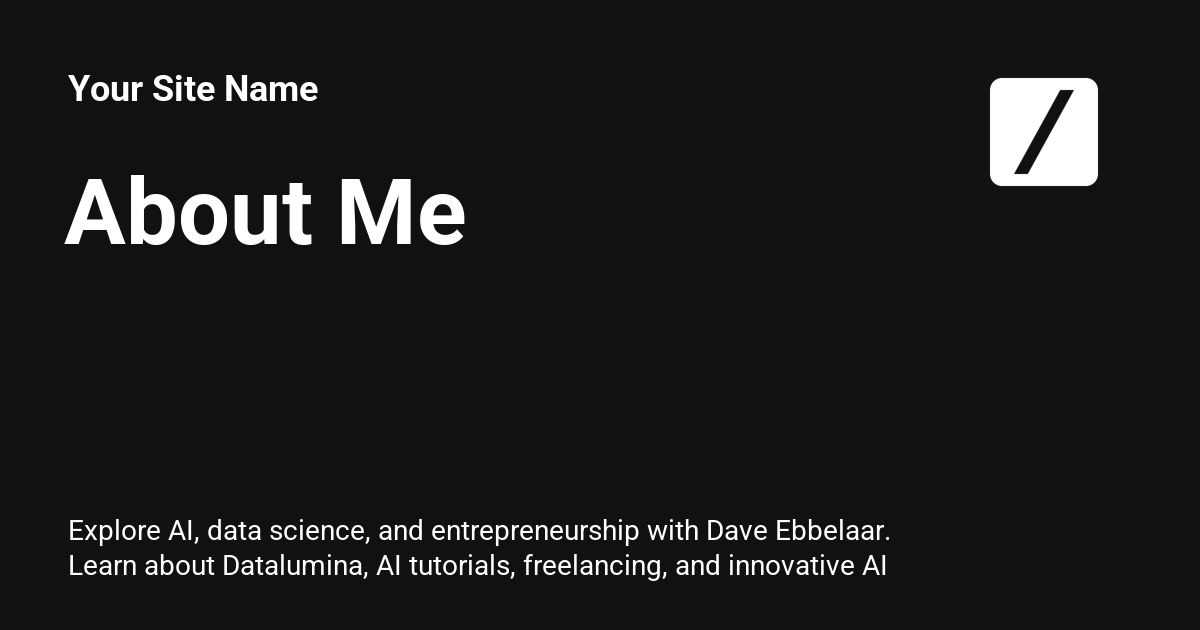
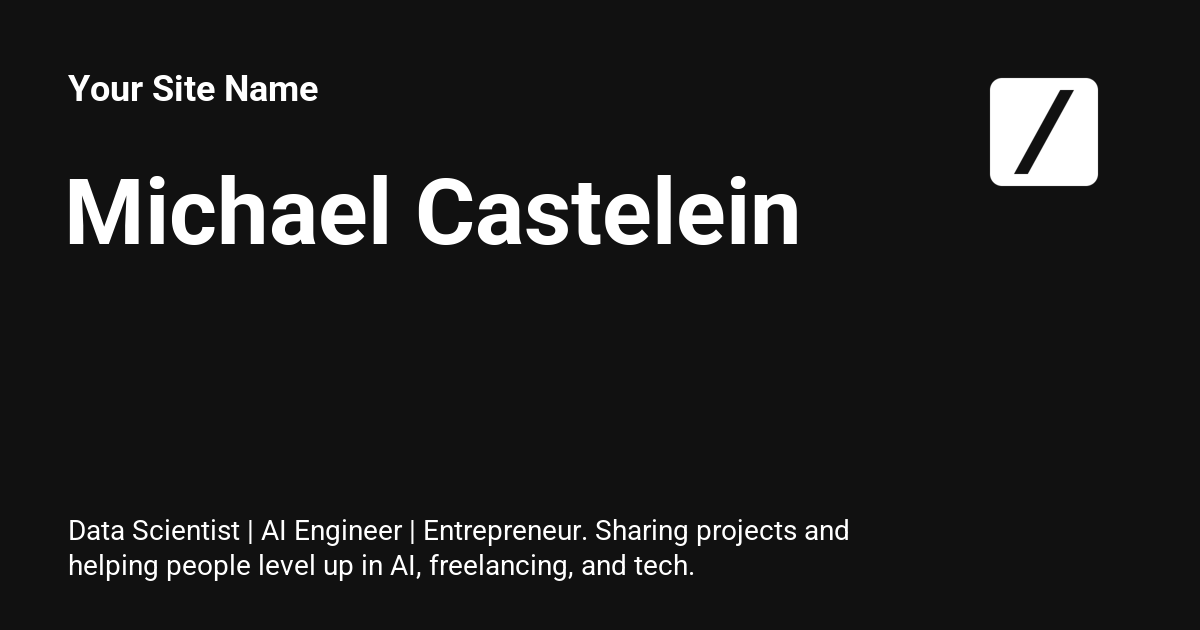
Deployed fbf3d1a with MkDocs version: 1.6.1

Changed region(s): [[0.0617, 0.8143, 0.74, 0.9349], [0.0308, 0.2714, 0.6783, 0.3921]]

diff --git a/index.html b/index.html
@@ -6,10 +6,10 @@
       <meta charset="utf-8">
       <meta name="viewport" content="width=device-width,initial-scale=1">
       
-        <meta name="description" content="Explore AI, data science, and entrepreneurship with Dave Ebbelaar. Learn about Datalumina, AI tutorials, freelancing, and innovative AI solutions for businesses.">
+        <meta name="description" content="Data Scientist | AI Engineer | Entrepreneur. Sharing projects and helping people level up in AI, freelancing, and tech.">
       
       
-        <meta name="author" content="Dave Ebbelaar">
+        <meta name="author" content="Michael Castelein">
       
       
         <link rel="canonical" href="https://michaelcastelein.com/">
@@ -24,7 +24,7 @@
     
     
       
-        <title>About Me - Your Site Name</title>
+        <title>Michael Castelein - Your Site Name</title>
       
     
     
@@ -65,7 +65,7 @@
       
         <meta  property="og:title"  content="Your Site Name" >
       
-        <meta  property="og:description"  content="Explore AI, data science, and entrepreneurship with Dave Ebbelaar. Learn about Datalumina, AI tutorials, freelancing, and innovative AI solutions for businesses." >
+        <meta  property="og:description"  content="Data Scientist | AI Engineer | Entrepreneur. Sharing projects and helping people level up in AI, freelancing, and tech." >
       
         <meta  property="og:image"  content="https://michaelcastelein.com/assets/images/social/index.png" >
       
@@ -81,7 +81,7 @@
       
         <meta  name="twitter:title"  content="Your Site Name" >
       
-        <meta  name="twitter:description"  content="Explore AI, data science, and entrepreneurship with Dave Ebbelaar. Learn about Datalumina, AI tutorials, freelancing, and innovative AI solutions for businesses." >
+        <meta  name="twitter:description"  content="Data Scientist | AI Engineer | Entrepreneur. Sharing projects and helping people level up in AI, freelancing, and tech." >
       
         <meta  name="twitter:image"  content="https://michaelcastelein.com/assets/images/social/index.png" >
       
@@ -106,7 +106,7 @@
     <div data-md-component="skip">
       
         
-        <a href="#turn-ai-complexity-into-your-competitive-advantage" class="md-skip">
+        <a href="#hey-im-michael" class="md-skip">
           Skip to content
         </a>
       
@@ -140,7 +140,7 @@
         <div class="md-header__topic" data-md-component="header-topic">
           <span class="md-ellipsis">
             
-              About Me
+              Michael Castelein
             
           </span>
         </div>
@@ -388,45 +388,27 @@
     <ul class="md-nav__list" data-md-component="toc" data-md-scrollfix>
       
         <li class="md-nav__item">
-  <a href="#i-have-5-years-experience-doing-just-that" class="md-nav__link">
-    <span class="md-ellipsis">
-      I have 5+ years experience doing just that
-    </span>
-  </a>
-  
-</li>
-      
-        <li class="md-nav__item">
   <a href="#about-me" class="md-nav__link">
     <span class="md-ellipsis">
-      About me
+      About Me
     </span>
   </a>
   
 </li>
       
         <li class="md-nav__item">
-  <a href="#why-work-with-me" class="md-nav__link">
+  <a href="#recent-projects" class="md-nav__link">
     <span class="md-ellipsis">
-      Why work with me?
+      Recent Projects
     </span>
   </a>
   
 </li>
       
         <li class="md-nav__item">
-  <a href="#what-my-past-clients-say-about-my-work" class="md-nav__link">
+  <a href="#lets-connect" class="md-nav__link">
     <span class="md-ellipsis">
-      What my past clients say about my work
-    </span>
-  </a>
-  
-</li>
-      
-        <li class="md-nav__item">
-  <a href="#frequently-asked-questions" class="md-nav__link">
-    <span class="md-ellipsis">
-      Frequently asked questions
+      Let’s Connect
     </span>
   </a>
   
@@ -938,149 +920,62 @@
 
 
 
-<script type="application/ld+json">
-{
-  "@context": "https://schema.org",
-  "@type": "Person",
-  "name": "Dave Ebbelaar",
-  "url": "https://www.daveebbelaar.com/",
-  "image": "https://avatars.githubusercontent.com/u/34709402?v=4",
-  "sameAs": [
-    "https://www.youtube.com/channel/UCn8ujwUInbJkBhffxqAPBVQ",
-    "https://www.youtube.com/@daveebbelaar",
-    "https://www.linkedin.com/in/daveebbelaar/",
-    "https://github.com/daveebbelaar"
-    "https://www.skool.com/@daveebbelaar"
-  ],
-  "jobTitle": "Founder & CEO",
-  "worksFor": {
-    "@type": "Organization",
-    "name": "Datalumina",
-    "url": "https://www.datalumina.com/"
-  },
-}
-</script>
-
 <div class="hero-section grid-container">
 <div class="text-intro-grid">
-<h1 id="turn-ai-complexity-into-your-competitive-advantage">Turn AI complexity into your competitive advantage</h1>
-<h3 id="i-have-5-years-experience-doing-just-that">I have 5+ years experience doing just that</h3>
-<ul>
-<li>
-<p>Are you struggling to keep up with the rapid pace of AI innovation?</p>
-</li>
-<li>
-<p>Do you need help translating AI hype into real business results?</p>
-</li>
-<li>
-<p>Want to implement AI effectively before competitors get ahead?</p>
-</li>
-<li>
-<p>Looking for technical expertise and a clear roadmap for AI solutions?</p>
-</li>
-<li>
-<p>Need someone who understands both technical and business perspectives?</p>
-</li>
-</ul>
-<p><a class="md-button md-button--primary" href="https://www.calendly.com">Book Free Intro Call <span class="twemoji"><svg xmlns="http://www.w3.org/2000/svg" viewBox="0 0 24 24"><path d="M5 17.59 15.59 7H9V5h10v10h-2V8.41L6.41 19z"/></svg></span></a></p>
+<h1 id="hey-im-michael">Hey, I’m Michael 👋</h1>
+<p><strong>Data Scientist | Machine Learning Engineer | Entrepreneur</strong></p>
+<p>I turn complex data problems into clear, actionable solutions.<br />
+Currently focused on building projects in AI, freelancing, and online education.</p>
+<p><a class="md-button md-button--primary" href="portfolio/">View Portfolio <span class="twemoji"><svg xmlns="http://www.w3.org/2000/svg" viewBox="0 0 24 24"><path d="M5 17.59 15.59 7H9V5h10v10h-2V8.41L6.41 19z"/></svg></span></a></p>
 </div>
 <div class="profile-image-grid">
-<p><img alt="Portrait of Dave Ebbelaar, AI entrepreneur and educator" class="profile-image" src="assets/%40daveebbelaar.jpg" /></p>
+<p><img alt="Michael Castelein headshot" class="profile-image" src="assets/%40daveebbelaar.jpg" /></p>
 </div>
 </div>
-<h2 id="about-me">About me</h2>
-<p>Hi! I'm Dave, an entrepreneur and educator from the Netherlands. I work with technical professionals facing the overwhelming pace of AI innovation and businesses struggling to translate AI hype into competitive advantage. Whether you're a developer watching your skills becoming obsolete or a company unsure how to implement AI effectively—the challenge is the same: how to effectively use this technology before your competitors do.</p>
-<p>My artificial intelligence journey spans over a decade, with bachelor's and master's degrees in the field and experience building custom data and AI systems across utilities, government, and e-commerce sectors. My tech stack includes Python, PostgreSQL, ML, FastAPI, OpenAI, Claude, Azure, vector databases, RAG, and LLM integration for enterprise applications.</p>
-<h2 id="why-work-with-me">Why work with me?</h2>
-<p>Here's what sets me apart and how I can help drive value for your business:</p>
+<h2 id="about-me">About Me</h2>
+<p>I'm Michael — a Dutch-American data scientist and entrepreneur with experience across analytics, forecasting, and machine learning. I’ve worked with startups and global companies, and I’m passionate about using data to make smarter decisions and build useful things.</p>
+<ul>
+<li>🧠 Master’s in Econometrics (Quantitative Finance)</li>
+<li>⚙ Python, SQL, Sklearn, TensorFlow, Statsmodels, PyTorch</li>
+<li>📊 Forecasting, Regression, NLP, Time Series, LLMs</li>
+<li>🌍 Worldschooling &amp; Remote Work Enthusiast</li>
+</ul>
+<p>I’m currently:</p>
+<ul>
+<li>🧪 Running AI experiments and freelancing</li>
+<li>🎓 Building a language-learning app with my partner</li>
+<li>🏋 Improving my fitness and exploring Asia</li>
+</ul>
+<h2 id="recent-projects">Recent Projects</h2>
 <div class="grid cards">
 <ul>
-<li>
-<p><span class="twemoji lg middle"><svg xmlns="http://www.w3.org/2000/svg" viewBox="0 0 640 512"><!--! Font Awesome Free 6.7.2 by @fontawesome - https://fontawesome.com License - https://fontawesome.com/license/free (Icons: CC BY 4.0, Fonts: SIL OFL 1.1, Code: MIT License) Copyright 2024 Fonticons, Inc.--><path d="M48 0C21.5 0 0 21.5 0 48v416c0 26.5 21.5 48 48 48h96v-80c0-26.5 21.5-48 48-48s48 21.5 48 48v80h89.9c-6.3-10.2-9.9-22.2-9.9-35.1 0-46.9 25.8-87.8 64-109.2V48c0-26.5-21.5-48-48-48zm16 240c0-8.8 7.2-16 16-16h32c8.8 0 16 7.2 16 16v32c0 8.8-7.2 16-16 16H80c-8.8 0-16-7.2-16-16zm112-16h32c8.8 0 16 7.2 16 16v32c0 8.8-7.2 16-16 16h-32c-8.8 0-16-7.2-16-16v-32c0-8.8 7.2-16 16-16m80 16c0-8.8 7.2-16 16-16h32c8.8 0 16 7.2 16 16v32c0 8.8-7.2 16-16 16h-32c-8.8 0-16-7.2-16-16zM80 96h32c8.8 0 16 7.2 16 16v32c0 8.8-7.2 16-16 16H80c-8.8 0-16-7.2-16-16v-32c0-8.8 7.2-16 16-16m80 16c0-8.8 7.2-16 16-16h32c8.8 0 16 7.2 16 16v32c0 8.8-7.2 16-16 16h-32c-8.8 0-16-7.2-16-16zm112-16h32c8.8 0 16 7.2 16 16v32c0 8.8-7.2 16-16 16h-32c-8.8 0-16-7.2-16-16v-32c0-8.8 7.2-16 16-16m304 176a80 80 0 1 0-160 0 80 80 0 1 0 160 0M352 477.1c0 19.3 15.6 34.9 34.9 34.9h218.2c19.3 0 34.9-15.6 34.9-34.9 0-51.4-41.7-93.1-93.1-93.1H445.1c-51.4 0-93.1 41.7-93.1 93.1"/></svg></span> Proven Business Experience</p>
-<hr />
-<p>As the founder of Datalumina, I bring entrepreneurial insight to every project. I understand both the technical and business sides of AI implementation, ensuring solutions that deliver real ROI and align with your business goals.</p>
-</li>
-<li>
-<p><span class="twemoji lg middle"><svg xmlns="http://www.w3.org/2000/svg" viewBox="0 0 24 24"><path d="m10 15 5.19-3L10 9zm11.56-7.83c.13.47.22 1.1.28 1.9.07.8.1 1.49.1 2.09L22 12c0 2.19-.16 3.8-.44 4.83-.25.9-.83 1.48-1.73 1.73-.47.13-1.33.22-2.65.28-1.3.07-2.49.1-3.59.1L12 19c-4.19 0-6.8-.16-7.83-.44-.9-.25-1.48-.83-1.73-1.73-.13-.47-.22-1.1-.28-1.9-.07-.8-.1-1.49-.1-2.09L2 12c0-2.19.16-3.8.44-4.83.25-.9.83-1.48 1.73-1.73.47-.13 1.33-.22 2.65-.28 1.3-.07 2.49-.1 3.59-.1L12 5c4.19 0 6.8.16 7.83.44.9.25 1.48.83 1.73 1.73"/></svg></span> Educator &amp; Communicator</p>
-<hr />
-<p>My experience as a content creator and educator means I can break down complex technical concepts into clear, actionable insights. You'll always understand the 'why' behind technical decisions and get clear progress updates.</p>
-</li>
-<li>
-<p><span class="twemoji lg middle"><svg xmlns="http://www.w3.org/2000/svg" viewBox="0 0 24 24"><path d="M12 3 1 9l11 6 9-4.91V17h2V9M5 13.18v4L12 21l7-3.82v-4L12 17z"/></svg></span> Industry Expert</p>
-<hr />
-<p>With over a decade in AI and data science, including work across utilities, government, and e-commerce sectors, I bring battle-tested expertise to your projects. My solutions are built on real-world experience, not just theory.</p>
-</li>
-<li>
-<p><span class="twemoji lg middle"><svg xmlns="http://www.w3.org/2000/svg" viewBox="0 0 24 24"><path d="m20 22-3.86-1.55c.7-1.53 1.2-3.11 1.51-4.72zM7.86 20.45 4 22l2.35-6.27c.31 1.61.81 3.19 1.51 4.72M12 2s5 2 5 10c0 3.1-.75 5.75-1.67 7.83A2 2 0 0 1 13.5 21h-3a2 2 0 0 1-1.83-1.17C7.76 17.75 7 15.1 7 12c0-8 5-10 5-10m0 10c1.1 0 2-.9 2-2s-.9-2-2-2-2 .9-2 2 .9 2 2 2"/></svg></span> Fast Implementation</p>
-<hr />
-<p>I specialize in rapid development and deployment of AI solutions. Using modern tools and proven frameworks, I can help you move from concept to production faster, giving you a competitive edge in today's fast-paced market.</p>
-</li>
+<li><span class="twemoji lg middle"><svg xmlns="http://www.w3.org/2000/svg" viewBox="0 0 24 24"><path d="m13.13 22.19-1.63-3.83c1.57-.58 3.04-1.36 4.4-2.27zM5.64 12.5l-3.83-1.63 6.1-2.77C7 9.46 6.22 10.93 5.64 12.5M21.61 2.39S16.66.269 11 5.93c-2.19 2.19-3.5 4.6-4.35 6.71-.28.75-.09 1.57.46 2.13l2.13 2.12c.55.56 1.37.74 2.12.46A19.1 19.1 0 0 0 18.07 13c5.66-5.66 3.54-10.61 3.54-10.61m-7.07 7.07c-.78-.78-.78-2.05 0-2.83s2.05-.78 2.83 0c.77.78.78 2.05 0 2.83s-2.05.78-2.83 0m-5.66 7.07-1.41-1.41zM6.24 22l3.64-3.64c-.34-.09-.67-.24-.97-.45L4.83 22zM2 22h1.41l4.77-4.76-1.42-1.41L2 20.59zm0-2.83 4.09-4.08c-.21-.3-.36-.62-.45-.97L2 17.76z"/></svg></span> Energy Price Forecasting Thesis</li>
 </ul>
-</div>
-<h2 id="what-my-past-clients-say-about-my-work">What my past clients say about my work</h2>
-<div class="grid cards testimonials">
+<hr />
+<p>Built a machine learning pipeline to forecast 1-day-ahead energy prices for California.<br />
+  Compared SARIMAX, LSTM, GRU, Random Forest, and Linear Regression with &amp; without spatial lags.<br />
+  Evaluated with RMSE, MAE, and R². Resulted in 10x faster predictions and better accuracy.</p>
 <ul>
-<li>
-<p><span class="twemoji lg middle"><svg xmlns="http://www.w3.org/2000/svg" viewBox="0 0 24 24"><path d="m10 7-2 4h3v6H5v-6l2-4zm8 0-2 4h3v6h-6v-6l2-4z"/></svg></span> Adrian Dragomir</p>
-<p>Founder at Sferal</p>
-<hr />
-<p>"Dave is a true professional and my collaboration with him has been flawless. <strong>He took his time and spent 3 days with me and my team in Mamaia, Romania where he was a guest for 3 sessions of my podcast Waves of AI</strong>. He is one of the most competent people I know that has a real understanding of how AI works and how to integrate it quickly in your company."</p>
-</li>
-<li>
-<p><span class="twemoji lg middle"><svg xmlns="http://www.w3.org/2000/svg" viewBox="0 0 24 24"><path d="m10 7-2 4h3v6H5v-6l2-4zm8 0-2 4h3v6h-6v-6l2-4z"/></svg></span> Barbara van den Bosch</p>
-<p>Founder at Viverve</p>
-<hr />
-<p>"Together with Datalumina, we developed a tailor-made program where I, as a school leader, can now bring together vast amounts of information in one place and automate key tasks. <strong>Beyond the tremendous quality improvement for our organization, working with Datalumina was an extremely pleasant experience</strong>."</p>
-</li>
-<li>
-<p><span class="twemoji lg middle"><svg xmlns="http://www.w3.org/2000/svg" viewBox="0 0 24 24"><path d="m10 7-2 4h3v6H5v-6l2-4zm8 0-2 4h3v6h-6v-6l2-4z"/></svg></span> Rene Raaphorst</p>
-<p>Founder at Crypto Insiders</p>
-<hr />
-<p>"My experience with Datalumina has been excellent. <strong>They think along with you every step of the way, from proof of concept to a fully functional product</strong>. I was amazed by the quality of the results and found the collaboration very enjoyable. I highly recommend Dave and Datalumina to everyone!"</p>
-</li>
-<li>
-<p><span class="twemoji lg middle"><svg xmlns="http://www.w3.org/2000/svg" viewBox="0 0 24 24"><path d="m10 7-2 4h3v6H5v-6l2-4zm8 0-2 4h3v6h-6v-6l2-4z"/></svg></span> Kelsen</p>
-<p>Founder at Datavisum</p>
-<hr />
-<p>"I am thankful for having come across Dave and Data Freelancer, it was one of the best investment decisions I've made in 2024. <strong>From effective ways to create inbound marketing strategies using social media, through solution architecture design to address all kinds of business challenges</strong>, you will extract a great deal of value from diverse perspectives."</p>
-</li>
+<li><span class="twemoji lg middle"><svg xmlns="http://www.w3.org/2000/svg" viewBox="0 0 24 24"><path d="M12 2a7 7 0 0 0-7 7c0 2.38 1.19 4.47 3 5.74V17a1 1 0 0 0 1 1h6a1 1 0 0 0 1-1v-2.26c1.81-1.27 3-3.36 3-5.74a7 7 0 0 0-7-7M9 21a1 1 0 0 0 1 1h4a1 1 0 0 0 1-1v-1H9z"/></svg></span> Notecard App for HSK1 Chinese Vocabulary</li>
 </ul>
-</div>
-<h2 id="frequently-asked-questions">Frequently asked questions</h2>
-<details class="note">
-<summary>How quickly can you start working on my project?</summary>
-<p>I can typically begin new projects within 1-2 weeks of contract signing. For urgent matters, I maintain some flexibility for rapid response situations and can potentially start sooner - just let me know your timeline during our initial consultation.</p>
-</details>
-<details class="note">
-<summary>Do you require a minimum project size or commitment?</summary>
-<p>While I can accommodate projects of any size, I find that engagements of at least 20 hours allow for meaningful impact. This gives us enough time to understand your data, implement solutions, and deliver actionable results. We can start with a small pilot project to ensure we're a good fit.</p>
-</details>
-<details class="note">
-<summary>What industries do you have experience in?</summary>
-<p>I've successfully delivered projects across e-commerce, manufacturing, healthcare, and financial services. While I specialize in data science fundamentals that apply across sectors, I particularly excel in projects involving customer behavior analysis, process optimization, and predictive modeling.</p>
-</details>
-<details class="note">
-<summary>How do you handle data security and confidentiality?</summary>
-<p>I take data security extremely seriously. I sign comprehensive NDAs before starting any project, use enterprise-grade encryption for all data transfers, and follow industry best practices for data handling. I can also work within your existing security infrastructure and policies.</p>
-</details>
-<details class="note">
-<summary>What's your pricing structure?</summary>
-<p>I offer both project-based and retainer pricing models. Project fees are based on scope, complexity, and value delivered rather than hours worked. For ongoing support, I offer flexible retainer packages. Let's discuss your specific needs during our consultation to determine the most cost-effective approach.</p>
-</details>
-<details class="note">
-<summary>How do you communicate progress and results?</summary>
-<p>I maintain clear communication through weekly progress updates and regular check-in meetings. You'll receive detailed documentation of all analyses, findings, and recommendations. For ongoing projects, I provide interactive dashboards and reports that allow you to track progress and results in real-time.</p>
-</details>
-<div class="grid cards" style="margin-top: 3rem">
+<hr />
+<p>Created an interactive Chinese vocab trainer using Streamlit and Python.<br />
+  Uses images instead of translations to encourage direct mental associations.</p>
 <ul>
-<li>
-<p><span class="twemoji lg middle"><svg xmlns="http://www.w3.org/2000/svg" viewBox="0 0 24 24"><path d="M2 21h18v-2H2M20 8h-2V5h2m0-2H4v10a4 4 0 0 0 4 4h6a4 4 0 0 0 4-4v-3h2a2 2 0 0 0 2-2V5a2 2 0 0 0-2-2"/></svg></span> Let's have a virtual coffee together!</p>
-<hr />
-<p>Want to see if we're a match? Let's have a chat and find out. Schedule a free 30-minute strategy session to discuss your AI challenges and explore how we can work together.</p>
-<p><a class="md-button md-button--primary" href="https://calendly.com">Book Free Intro Call <span class="twemoji"><svg xmlns="http://www.w3.org/2000/svg" viewBox="0 0 24 24"><path d="M5 17.59 15.59 7H9V5h10v10h-2V8.41L6.41 19z"/></svg></span></a></p>
-</li>
+<li><span class="twemoji lg middle"><svg xmlns="http://www.w3.org/2000/svg" viewBox="0 0 24 24"><path d="M16 17v2H2v-2s0-4 7-4 7 4 7 4m-3.5-9.5A3.5 3.5 0 1 0 9 11a3.5 3.5 0 0 0 3.5-3.5m3.44 5.5A5.32 5.32 0 0 1 18 17v2h4v-2s0-3.63-6.06-4M15 4a3.4 3.4 0 0 0-1.93.59 5 5 0 0 1 0 5.82A3.4 3.4 0 0 0 15 11a3.5 3.5 0 0 0 0-7"/></svg></span> English Learning Business</li>
 </ul>
+<hr />
+<p>Scaling a tutoring business for Chinese students. Built CRM in Notion, optimized outreach, and started onboarding other teachers.</p>
 </div>
+<h2 id="lets-connect">Let’s Connect</h2>
+<p>If you’re interested in:</p>
+<ul>
+<li>Collaborating on data/AI projects</li>
+<li>Learning how to freelance in tech</li>
+<li>Hiring a data scientist or AI engineer</li>
+</ul>
+<p>Then let’s chat!</p>
+<p><a class="md-button md-button--primary" href="https://calendly.com/mpcastelein/1-1-coffee-chat">Lets grab a digital coffee☕! <span class="twemoji"><svg xmlns="http://www.w3.org/2000/svg" viewBox="0 0 24 24"><path d="M5 17.59 15.59 7H9V5h10v10h-2V8.41L6.41 19z"/></svg></span></a></p>
 
 
 
